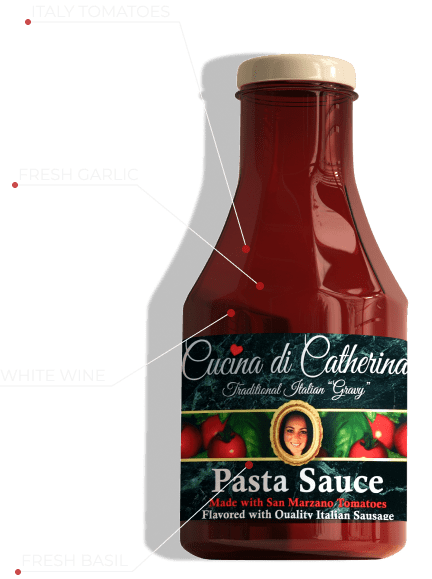
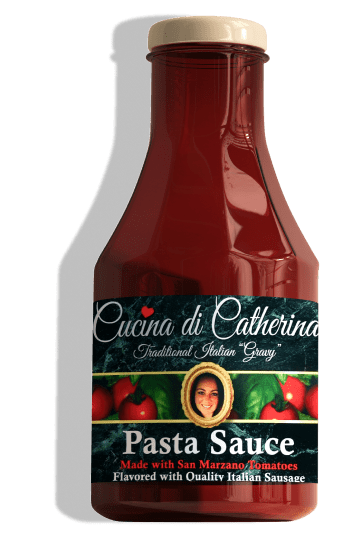
ketchup image animated

diff --git a/src/sass/layouts/_hero.scss b/src/sass/layouts/_hero.scss
@@ -128,13 +128,83 @@
 .hero__picture {
   position: relative;
   @include tablet {
-    width: 432px;
-    height: 579px;
+    width: 343px;
+    height: 541px;
   }
   @include desktop {
     margin-right: 47px;
   }
+
+  @keyframes fadeIn {
+    0% {
+      opacity: 0;
+    }
+    100% {
+      opacity: 1;
+    }
+  }
 }
+
+.overlay1,
+.overlay2,
+.overlay3,
+.overlay4 {
+  position: absolute;
+  width: 1px;
+  height: 1px;
+  opacity: 0;
+  animation: fadeIn 1s ease-in-out forwards;
+  transition: transform $transit;
+
+  &:hover {
+    transform: scale(1.1);
+  }
+}
+
+.overlay1 {
+  @include tablet {
+    top: -45px;
+    left: -75px;
+    animation-delay: 0.5s;
+    width: 225px;
+    height: 252px;
+    background-image: url('../images/ketchup-italy-tomatos.png');
+  }
+}
+
+.overlay2 {
+  @include tablet {
+    top: 130px;
+    left: -75px;
+    animation-delay: 1s;
+    width: 252px;
+    height: 126px;
+    background-image: url('../images/ketchup-fresh-garlic.png');
+  }
+}
+
+.overlay3 {
+  @include tablet {
+    bottom: 190px;
+    left: -110px;
+    animation-delay: 1.5s;
+    width: 241px;
+    height: 80px;
+    background-image: url('../images/ketchup-white-wine.png');
+  }
+}
+
+.overlay4 {
+  @include tablet {
+    bottom: 0;
+    left: -75px;
+    animation-delay: 2s;
+    width: 238px;
+    height: 114px;
+    background-image: url('../images/ketchup-fresh-brazil.png');
+  }
+}
+
 .hero__image {
   content: '';
   position: absolute;
@@ -150,7 +220,7 @@
 
   @include tablet {
     top: 0;
-    width: 432px;
-    height: 579px;
+    width: 343px;
+    height: 541px;
   }
 }

diff --git a/src/partials/header.html b/src/partials/header.html
@@ -66,6 +66,10 @@
             " media="(max-width: 1019px)" />
           <img class="hero__image" src="./images/ketchup-desk-1x.png" alt="Ketchup bottle" loading="lazy" />
         </picture>
+        <div class="overlay1"></div>
+        <div class="overlay2"></div>
+        <div class="overlay3"></div>
+        <div class="overlay4"></div>
       </div>
 
       <ul class="social-net__list">

diff --git a/src/sass/layouts/_products.scss b/src/sass/layouts/_products.scss
@@ -33,7 +33,7 @@
   width: 125px;
   height: 125px;
   border-radius: 50%;
-  transition: transform 0.3s ease;
+  transition: transform $transit;
 
   filter: drop-shadow(0 0 10px #7c7070);
 
@@ -49,7 +49,7 @@
   }
 
   &:hover {
-    transform: rotate(45deg);
+    transform: rotate(60deg);
   }
 }
 
